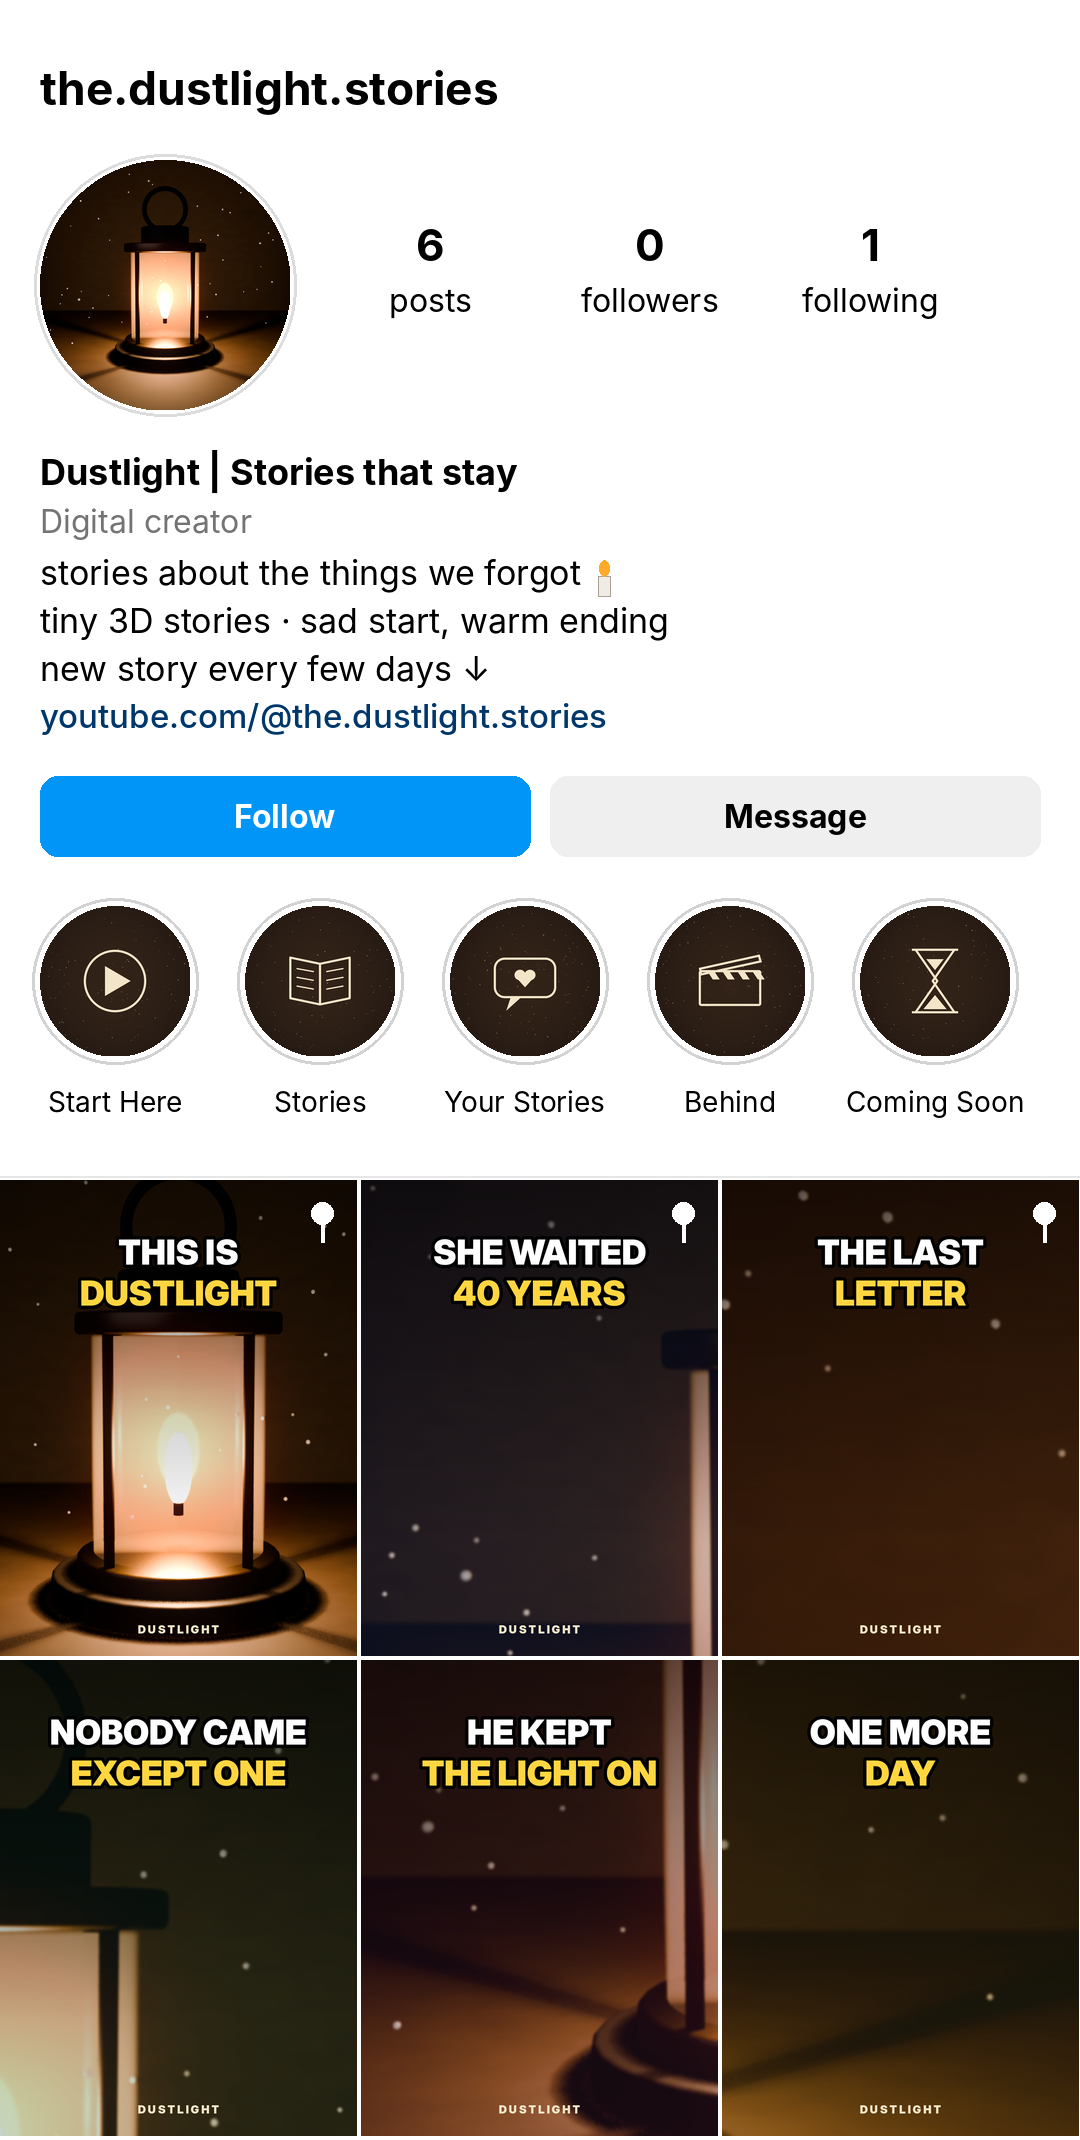
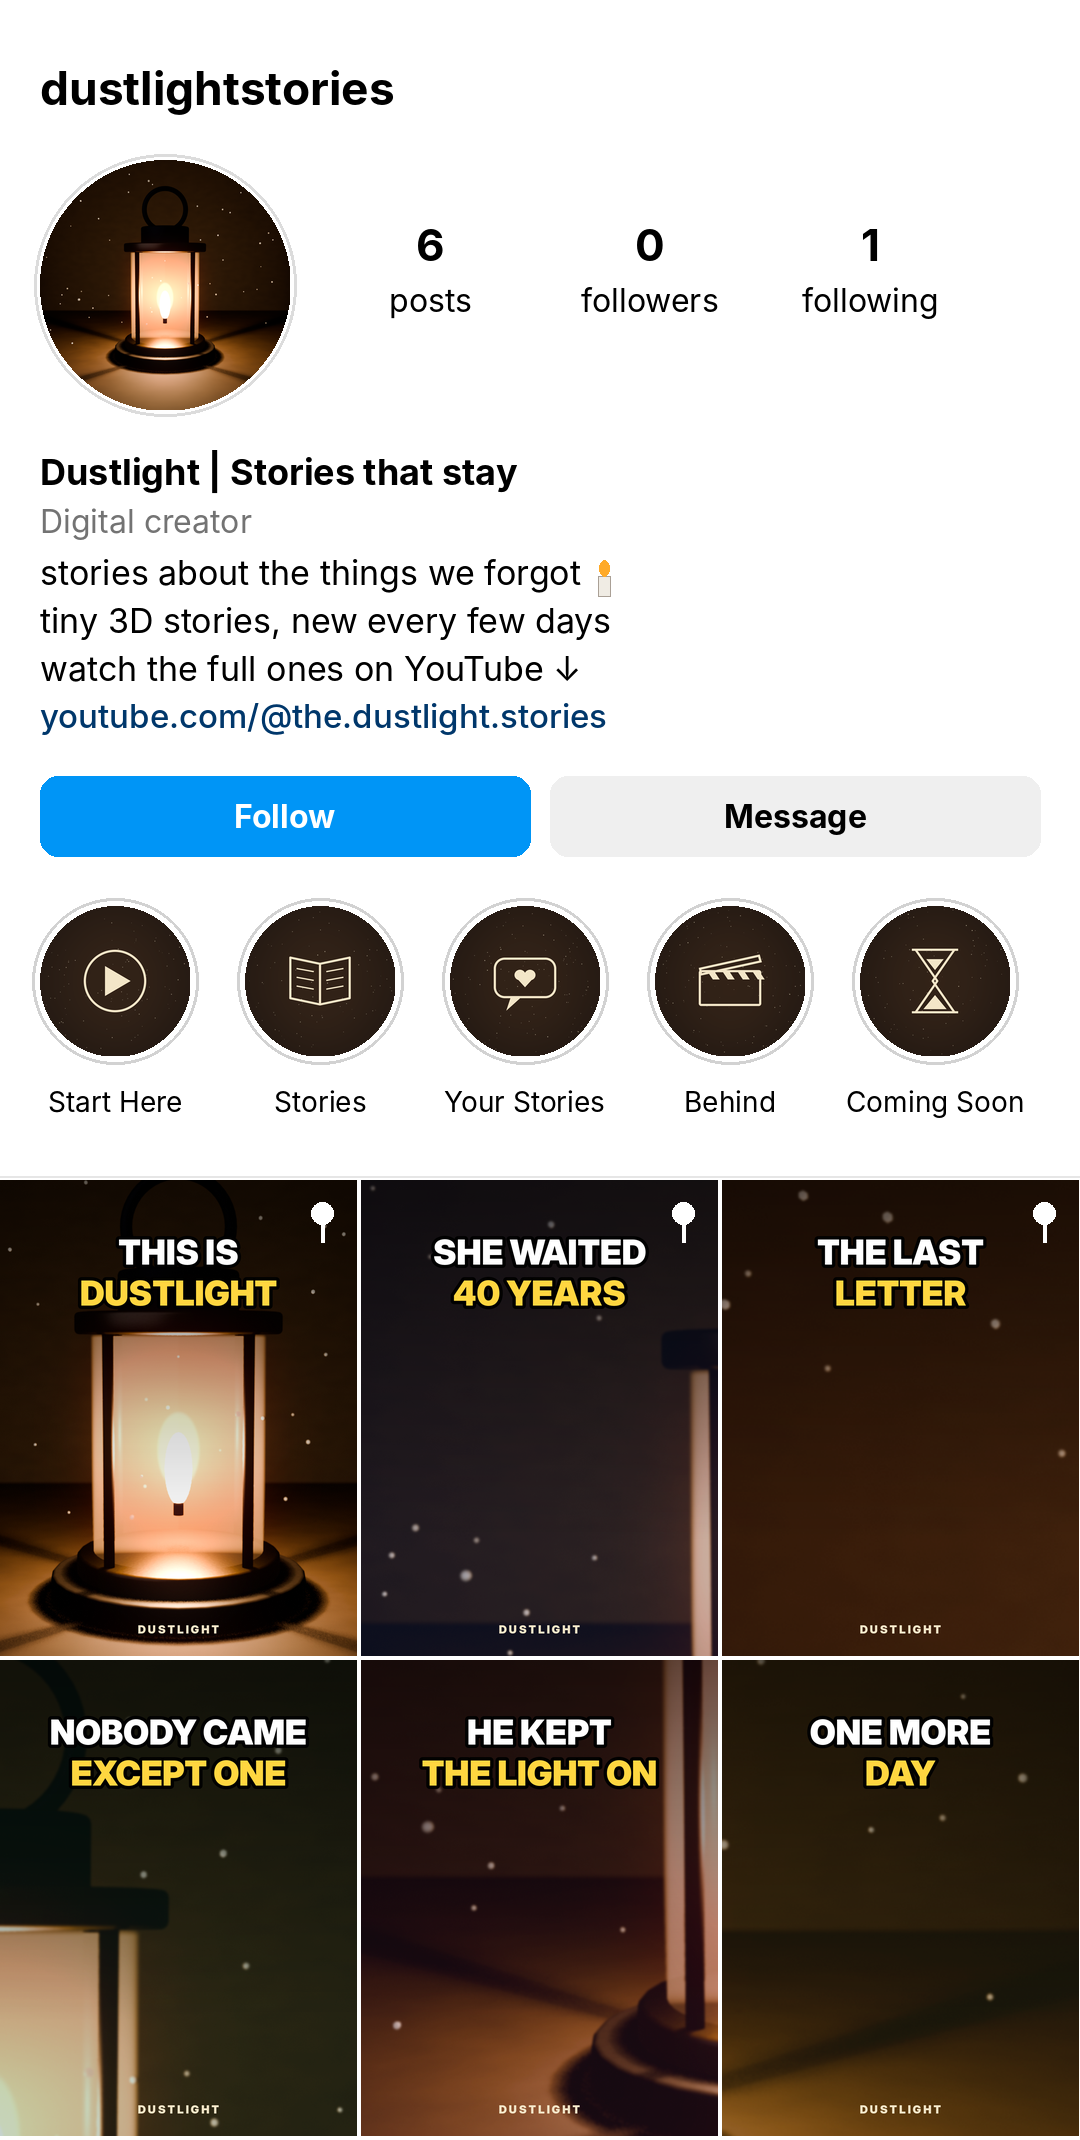
Instagram mock-up: new bio and handle
Claude-Session: https://claude.ai/code/session_01AYwv5HqZqh8aWTPnMgsdfG

Changed region(s): [[0.0306, 0.2776, 0.6111, 0.3393], [0.0306, 0.0308, 0.4583, 0.0617]]

diff --git a/channel/instagram/make_kit.py b/channel/instagram/make_kit.py
@@ -122,7 +122,7 @@ for i, (top, key, bg) in enumerate(SAMPLES):
 W, P = 1080, 40; H = 2340
 m = Image.new("RGB", (W, H), (255, 255, 255)); d = ImageDraw.Draw(m)
 ui = lambda s: font("Inter-Bold.otf", s); reg = lambda s: font("Inter-Regular.otf", s); med = lambda s: font("Inter-Medium.otf", s)
-d.text((P, 60), "the.dustlight.stories", font=ui(46), fill=(0, 0, 0))
+d.text((P, 60), "dustlightstories", font=ui(46), fill=(0, 0, 0))
 # avatar
 av = pfp.resize((250, 250), Image.LANCZOS); mask = Image.new("L", (250, 250), 0); ImageDraw.Draw(mask).ellipse((0, 0, 250, 250), fill=255)
 d.ellipse((P - 6, 160 - 6, P + 256, 160 + 256), outline=(220, 220, 220), width=3); m.paste(av, (P, 160), mask)
@@ -135,7 +135,7 @@ d.text((P, y), "Digital creator", font=reg(32), fill=(115, 115, 115)); y += 50
 bx = P + d.textlength("stories about the things we forgot ", font=reg(34)); by = y + 6   # candle (the mock-up font has no emoji)
 d.rectangle((bx + 8, by + 18, bx + 20, by + 38), fill=(240, 236, 228), outline=(170, 160, 150))
 d.ellipse((bx + 9, by + 2, bx + 19, by + 18), fill=(255, 170, 40))
-for ln in ["stories about the things we forgot", "tiny 3D stories · sad start, warm ending", "new story every few days ↓"]:
+for ln in ["stories about the things we forgot", "tiny 3D stories, new every few days", "watch the full ones on YouTube ↓"]:
     d.text((P, y), ln, font=reg(34), fill=(0, 0, 0)); y += 48
 d.text((P, y), "youtube.com/@the.dustlight.stories", font=med(33), fill=(0, 55, 107)); y += 80
 bw = (W - 2 * P - 20) // 2
